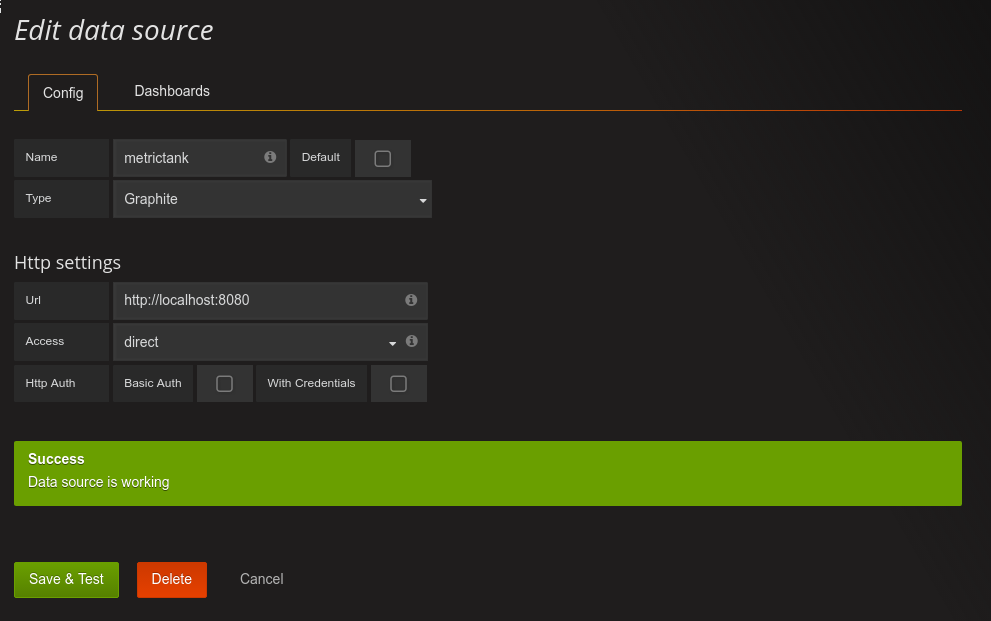
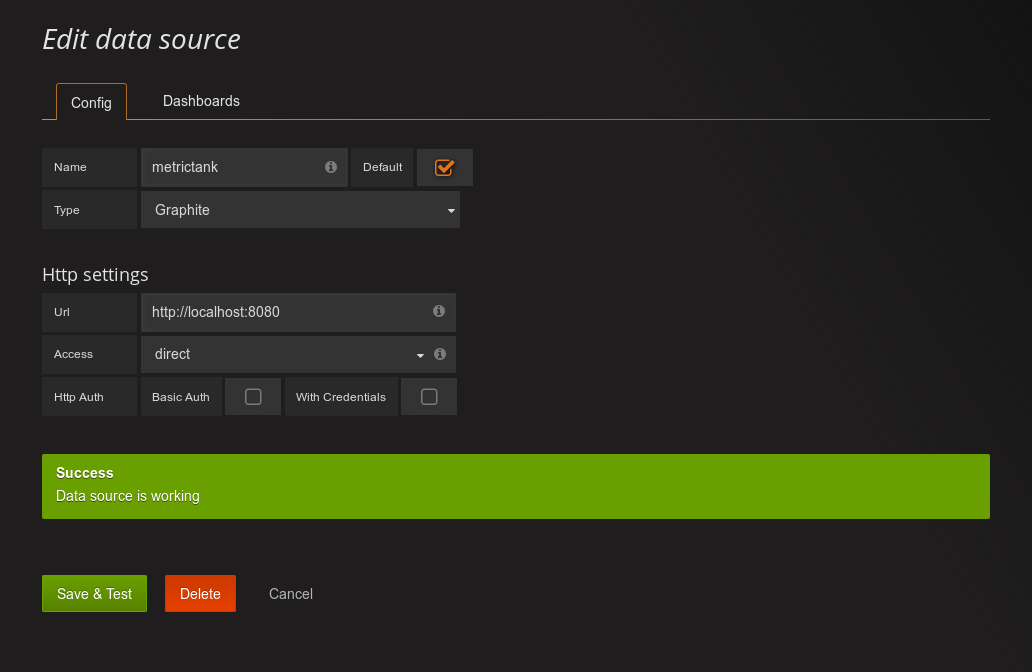
make metrictank default DS, makes things easier

diff --git a/docs/quick-start-docker.md b/docs/quick-start-docker.md
@@ -41,7 +41,7 @@ $ curl http://localhost:6060/cluster
 
 Then, in your browser, open Grafana which is at `http://localhost:3000` and log in as `admin:admin`
 In the menu upper left, hit `Data Sources` and then the `add data source` button.
-Add a new data source of name `metrictank`, type `Graphite`, uri `http://localhost:8080` and access mode `direct` (not `proxy`).
+Add a new data source with name `metrictank`, check "default", type `Graphite`, uri `http://localhost:8080` and access mode `direct` (not `proxy`).
 
 When you hit save, Grafana should succeed in talking to the data source.
 
